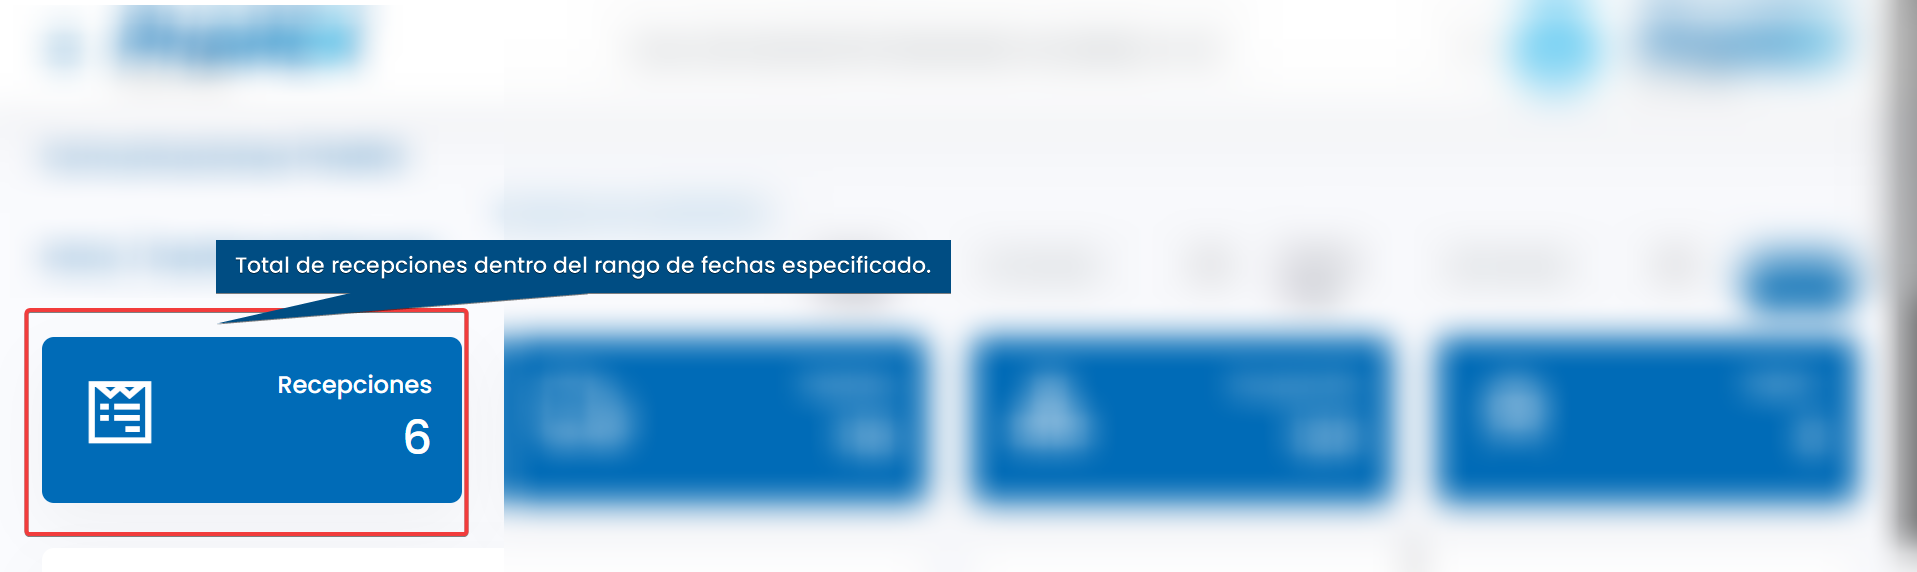
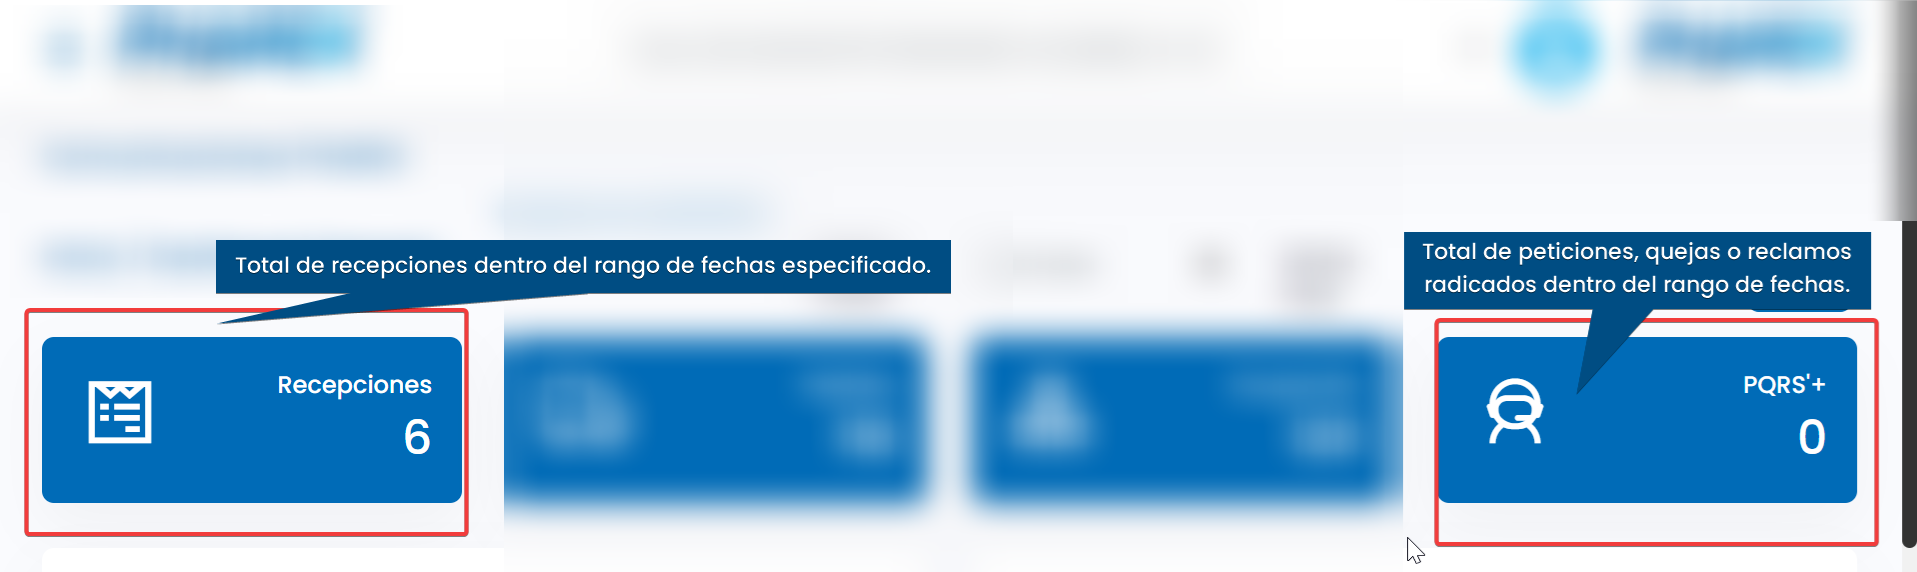
Mejoras importantes del manual

Changed region(s): [[0.7079, 0.0297, 1.0, 0.9808], [0.8618, 0.0, 0.9541, 0.0297], [0.8002, 0.0594, 0.831, 0.0892]]

diff --git a/docs/index.html b/docs/index.html
@@ -2,7 +2,7 @@
 <html lang="en">
 <head>
   <meta charset="UTF-8">
-  <title>Docs BIL V2</title>
+  <title>BIL :: Documentación</title>
   <link rel="icon" href="https://www.pharex.co/wp-content/uploads/2022/01/pharex-favicon.svg" sizes="192x192">
   <meta name="keywords" content="writing,editing,markdown,apple,text,editor,automator,macOS,iOS,iPadOS,iPhone,iPad,workflow,shortcuts"></meta>
   <meta name="description" content="BIL V2 - Markdown & Text Actions">

diff --git a/docs/_style/light.css b/docs/_style/light.css
@@ -663,11 +663,12 @@ body {
 .markdown-section figure,
 .markdown-section p {
   margin: 1.2em 0;
+  font-size: 120%;
 }
 .markdown-section p,
 .markdown-section ul,
 .markdown-section ol {
-  line-height: 1.6rem;
+  line-height: 1.8rem;
   word-spacing: 0.05rem;
 }
 .markdown-section ul,

diff --git a/docs/_js/index.js b/docs/_js/index.js
@@ -1,5 +1,5 @@
 window.$docsify = {
-  themeColor: '#ff9500',
+  themeColor: '#004875',
   alias: {
     '/((?!cn).)*/_sidebar.md': '/_sidebar.md',
     '/((?!cn).)*/_navbar.md': '/_navbar.md',

diff --git a/docs/editor/home.md b/docs/editor/home.md
@@ -8,25 +8,34 @@ Si es así, ¡ya estás dentro de BIL V2!
 
 Ahora **exploraremos** las distintas secciones de la página principal. En la siguiente imagen, descubrirás cómo desplegar el menú, acceder a sus opciones y otros detalles:  
 
+<img src="https://josemaestreb.github.io/docs.bil_v2/_asset/01-%20Inicio%2C%20login%20y%20editar%20perfil/003-inicio.png" />  
+
 **Ten en cuenta:** El botón de menú será el que más utilizarás, ¡no lo olvides!.  
+  
 
-<img src="https://josemaestreb.github.io/docs.bil_v2/_asset/01-%20Inicio%2C%20login%20y%20editar%20perfil/003-inicio.png" />
-
+## Secciones del Menú Principal
 En esta página principal, además de explorar el menú de opciones, podrás familiarizarte con el **Dashboard General**, que ofrece un resumen completo de tu operación. A continuación, te mostramos en detalle el significado de cada sección y cómo interactuar con ellas mediante las siguientes imágenes:  
+  
 
-<img src="https://josemaestreb.github.io/docs.bil_v2/_asset/01-%20Inicio%2C%20login%20y%20editar%20perfil/005-resumen_general.png" />
+## 1. Resumen General: Inicio
+<img src="https://josemaestreb.github.io/docs.bil_v2/_asset/01-%20Inicio%2C%20login%20y%20editar%20perfil/005-resumen_general.png" />  
+  
+
+El **significado** de cada tarjeta es:  
 
 <img src="https://josemaestreb.github.io/docs.bil_v2/_asset/01-%20Inicio%2C%20login%20y%20editar%20perfil/006-resumen_recepciones.png" />
 
 <img src="https://josemaestreb.github.io/docs.bil_v2/_asset/01-%20Inicio%2C%20login%20y%20editar%20perfil/007-resumen_pedidos.png" />
 
-<img src="https://josemaestreb.github.io/docs.bil_v2/_asset/01-%20Inicio%2C%20login%20y%20editar%20perfil/009-resumen_pqrs.png" />
 
-Debajo del Dashboard General encontrarás una tabla de "**Pedidos por Estado**", acompañada de un mapa interactivo que muestra la cantidad o volumen de pedidos por ciudad. En este gráfico, el tamaño de las **burbujas** representa el **número de pedidos en cada destino**: cuanto más grandes sean, mayor será la cantidad. A continuación, te explicamos el significado de cada estado:  
-
+## 2. Pedidos por Estado y Ciudad
 <img src="https://josemaestreb.github.io/docs.bil_v2/_asset/01-%20Inicio%2C%20login%20y%20editar%20perfil/014-tabla_estado_pedidos.png" />
   
 
+Debajo del Dashboard General encontrarás una tabla de "**Pedidos por Estado**", acompañada de un mapa interactivo que muestra la cantidad o volumen de pedidos por ciudad. En este gráfico, el tamaño de las **burbujas** representa el **número de pedidos en cada destino**: cuanto más grandes sean, mayor será la cantidad.  
+
+
+## Módulo finalizado: Menú Principal
 ¡Perfecto! Ahora ya conoces lo esencial para interactuar con la página principal de BIL. Si deseas profundizar más, puedes explorar las secciones de [Funcionalidades](editor/command-palette.md) e [Información del Usuario](editor/command-palette.md), aunque esto último es opcional.  
 
 ¡Felicidades! Estás listo para continuar con la sección: **Consultar Estado del Pedido**

diff --git a/docs/_sidebar.md b/docs/_sidebar.md
@@ -1,24 +1,25 @@
-- Primeros Pasos
-  - [Introducción](README.md)
-  - [Preguntas Frecuentes](faq.md)
-- Inicio BIL
-  - [Inicio de Sesión](editor/login.md)
-  - [Menú Principal](editor/home.md)
-  - [Funcionalidades](editor/funcionalities_home.md)
-  - [Información del Usuario](editor/user_info_home.md)
-- Consultar Estado del Pedido
-  - [Tutorial: Estado del Pedido](editor/query_ped_status.md)
-- Cargue de Información
-  - [Registro de PQRSF](editor/pqrsf.md)
-  - [Cargue de Plantilla de Pedidos](editor/peds_template.md)
-- Descarga de Reportes
-  - [Reporte de Recepciones](editor/rep_recepciones.md)
-  - [Reporte de Pedidos](editor/rep_pedidos.md)
-  - [Reporte de Devoluciones](editor/rep_devoluciones.md)
-  - [Reporte de Inventarios](editor/rep_inventarios.md)
-  - [Reporte de PQRSF](editor/rep_pqrsf.md)
-- Usuarios y Auditoria
-  - [Administración de Usuarios](editor/admin_users.md)
-  - [Creación de Usuarios](editor/create_users.md)
-  - [Modificación de Usuario Actual](editor/modify_user.md)
-  - [Auditoría de la Herramienta](editor/audit_tool.md)
+- 1. Primeros Pasos
+  - 1.1 [Introducción](README.md)
+  - 1.2 [Preguntas Frecuentes](faq.md)
+- 2. Inicio BIL
+  - 2.1 [Inicio de Sesión](editor/login.md)
+  - 2.2 [Menú Principal](editor/home.md)
+  - 2.3 [Funcionalidades](editor/funcionalities_home.md)
+  - 2.4 [Información del Usuario](editor/user_info_home.md)
+- 3. Consultar Estado del Pedido
+  - 3.1 [Tutorial: Estado del Pedido](editor/query_ped_status.md)
+- 4. Cargue de Información
+  - 4.1 [Registro de PQRSF](editor/pqrsf.md)
+  - 4.2 [Cargue de Plantilla de Pedidos](editor/peds_template.md)
+- 5. Descarga de Reportes
+  - 5.1 [Configuración de Reportes](editor/config_rep.md)
+  - 5.2 [Reporte de Recepciones](editor/rep_recepciones.md)
+  - 5.3 [Reporte de Pedidos](editor/rep_pedidos.md)
+  - 5.4 [Reporte de Devoluciones](editor/rep_devoluciones.md)
+  - 5.5 [Reporte de Inventarios](editor/rep_inventarios.md)
+  - 5.6 [Reporte de PQRSF](editor/rep_pqrsf.md)
+- 6. Usuarios y Auditoría
+  - 6.1 [Administración de Usuarios](editor/admin_users.md)
+  - 6.2 [Creación de Usuarios](editor/create_users.md)
+  - 6.3 [Modificación de Usuario Actual](editor/modify_user.md)
+  - 6.4 [Auditoría de la Herramienta](editor/audit_tool.md)

diff --git a/docs/editor/config_rep.md b/docs/editor/config_rep.md
@@ -1,0 +1,23 @@
+# Configuración Previa de Reportes
+
+En esta sección utilizaremos el Reporte de Recepciones (o Recibo de Mercancía) como **ejemplo**. Este reporte incluye funciones clave como ordenado, filtrado, resumen y exportación a Excel, las cuales son **aplicables a otros reportes** de la plataforma.
+
+## 1. Resumen y Filtrado de Fechas
+En esta sección, podrás visualizar un resumen de la información y aplicar filtros de fechas para acotar los datos según tus necesidades.  
+<img src="https://josemaestreb.github.io/docs.bil_v2/_asset/03-%20Reportes/019_recibo_mercancias.png" />
+
+## 2. Filtrado de Texto, Exportación y Navegación Entre Páginas
+Aquí aprenderás a filtrar datos específicos, ingresando información como nombre del artículo, lote y código de recibo. También podrás exportar los datos a Excel y navegar fácilmente entre las páginas del reporte.  
+<img src="https://josemaestreb.github.io/docs.bil_v2/_asset/03-%20Reportes/020_recibo_mercancias_2.png" />
+
+## 3. Selección de Campos Específicos en el Reporte
+Esta funcionalidad te permite personalizar el reporte seleccionando únicamente los campos que necesitas. A continuación, un video demostrativo:  
+<video width="100%" controls autoplay>
+  <source src="https://josemaestreb.github.io/docs.bil_v2/_asset/03-%20Reportes/021_seleccion_de_campos_tablas.mp4" type="video/mp4">
+  Tu navegador no soporta el formato de video.
+</video>
+
+**Nota:** Para ordenar los datos en el reporte, haz clic en el encabezado o título de la columna deseada. El orden cambiará entre ascendente y descendente con cada clic.  
+  
+**¡Felicidades!**  
+Con estas herramientas, ahora puedes interactuar con cualquier menú de reportes en la plataforma y descargar la información ajustada según tus preferencias.  

diff --git a/docs/faq.md b/docs/faq.md
@@ -1,23 +1,7 @@
-# FAQ
+# Preguntas Frecuentes
 
-## Are there file services other than iCloud?
-
-BIL currently supports iCloud Drive, and we are considering adding services like OneDrive or other commonly used cloud storage services. In addition, a WebDAV based file transfer method is also planned.
-
-## Is there an action sharing community?
-
-We are working on it, please stay tuned.
-
-## Why aren't widgets interactive?
-
-Due to system limitations, all third-party apps in iOS 14 and macOS 11 are not interactive.
-
-However, BIL provides full support for Shortcuts, by leveraging its widgets, you can save data without opening the app. Please refer to our [guides](integration/shortcuts.md) to set it up if necessary.
-
-## Why isn't the widget updating?
-
-There are some restrictions on how often third-party widgets can be refreshed, refreshes are strictly budgeted. There is no perfect solution to work around this issue, please try it again later, thanks for your understanding.
-
-## Why doesn't iCloud sync work?
-
-We use system's iCloud Drive service directly, which means we can't interfere with the synchronization process too much. In many cases, iCloud Cloud service is affected by the network environment, so we suggest that you try switching networks or be patient when you encounter problems.
+## ¿Cómo puedo regresar al menú principal?
+  
+En cualquier momento, puedes regresar al menú principal presionando el botón Menú. Sigue los pasos que se muestran a continuación para volver a la página principal fácilmente:  
+  
+<img src="https://josemaestreb.github.io/docs.bil_v2/_asset/01-%20Inicio%2C%20login%20y%20editar%20perfil/013-Regresar_inicio_desde_editar_perfil.gif" />

diff --git a/docs/editor/user_info_home.md b/docs/editor/user_info_home.md
@@ -1,9 +1,19 @@
-**Aprende cómo conocer la información de tu perfil y editarla.**
-
-Presionar el botón del perfil de usuario debe verse así:
-
-<img src="https://josemaestreb.github.io/docs.bil_v2/_asset/01-%20Inicio%2C%20login%20y%20editar%20perfil/011-resumen_detalles_perfil.gif" />
-
-Y al abrirlo, te lleva a una página así:
+## Consulta Rápida: Información del Perfil  
+Haz clic en el botón ubicado junto al logo de PHAREX para acceder a los datos básicos de tu perfil. Desde esta sección, también puedes editar la información de tu perfil o cerrar la sesión actual.  
+  
+A continuación, se muestra un ejemplo de demostración:  
 
 <img src="https://josemaestreb.github.io/docs.bil_v2/_asset/01-%20Inicio%2C%20login%20y%20editar%20perfil/011-resumen_detalles_perfil.gif" />
+
+
+## Editar Datos del Perfil
+Al acceder a la sección de datos básicos del usuario, si presionas el botón Editar Perfil, podrás modificar tu información personal, como se muestra a continuación:  
+  
+
+<img src="https://josemaestreb.github.io/docs.bil_v2/_asset/01-%20Inicio%2C%20login%20y%20editar%20perfil/012-entrar_a_editar_perfil.gif" />
+
+## Cerrar Sesión
+Desde la sección de datos básicos del usuario, presiona el botón Cerrar Sesión para salir de tu perfil y finalizar la sesión actual:  
+  
+
+<img src="https://josemaestreb.github.io/docs.bil_v2/_asset/01-%20Inicio%2C%20login%20y%20editar%20perfil/012-entrar_a_editar_perfil.gif" />

diff --git a/docs/editor/funcionalities_home.md b/docs/editor/funcionalities_home.md
@@ -1,3 +1,12 @@
-Descubre cómo activar el modo de pantalla completa, acceder a la información de tu perfil, editar tus datos y cerrar sesión:
+# Descubre:  
+  
+• Cómo activar el modo de **pantalla completa**
+• Acceder a la información de tu **perfil**
+• Editar tus datos y,
+• Cerrar sesión:
 
 <img src="https://josemaestreb.github.io/docs.bil_v2/_asset/01-%20Inicio%2C%20login%20y%20editar%20perfil/010-resumen_elementos_extra.png" />
+
+Para consultar o modificar los datos de tu usuario, o cerrar la sesión, dirígete a la siguiente sección y descubre cómo realizar estos procesos:  
+  
+**([Información del Usuario](editor/user_info_home.md))**

diff --git a/docs/editor/query_ped_status.md b/docs/editor/query_ped_status.md
@@ -1,6 +1,6 @@
 # Tutorial: Consulta el estado de tu pedido en BIL  
 
-En este tutorial aprenderás a consultar el estado de tus pedidos. Solo necesitas ingresar el código de pedido y seguir los pasos que se detallan en el video:  
+En este **tutorial** aprenderás a consultar el estado de tus pedidos. Solo necesitas ingresar el código de pedido y **seguir los pasos** que se detallan en el video:  
 
 <video width="100%" controls autoplay>
   <source src="https://josemaestreb.github.io/docs.bil_v2/_asset/02-%20Estado%20pedido%20y%20solicitudes/016-tutorial_estado_pedido.mp4" type="video/mp4">

diff --git a/docs/editor/admin_users.md b/docs/editor/admin_users.md
@@ -1,1 +1,11 @@
-# Administre los Usuarios de la Plataforma
+# Gestión de Usuarios en la Plataforma
+
+Accede al menú de opciones y selecciona **Administrar Usuarios** en la sección **Usuarios** para realizar tareas como:
+
+• Gestionar cuentas de usuario.  
+• Editar información personal y credenciales.  
+• Eliminar datos de usuarios.  
+  
+A continuación, se muestra un ejemplo visual del proceso:  
+  
+<img src="https://josemaestreb.github.io/docs.bil_v2/_asset/04-%20Anuncios%2C%20gestión%20de%20usuarios%20y%20demás/026_administrar_usuarios.png" />  

diff --git a/docs/editor/modify_user.md b/docs/editor/modify_user.md
@@ -1,1 +1,5 @@
-# Modifique los Datos Del Usuario Actual (logueado)
+# Modifique los Datos Del Usuario Actual
+
+Accede al menú de opciones y selecciona **Modificar Perfil** en la sección **Usuarios** para editar la información del usuario que actualmente está logueado en la plataforma.  
+
+<img src="https://josemaestreb.github.io/docs.bil_v2/_asset/04-%20Anuncios%2C%20gestión%20de%20usuarios%20y%20demás/028_modificar_usuario.png" />  
